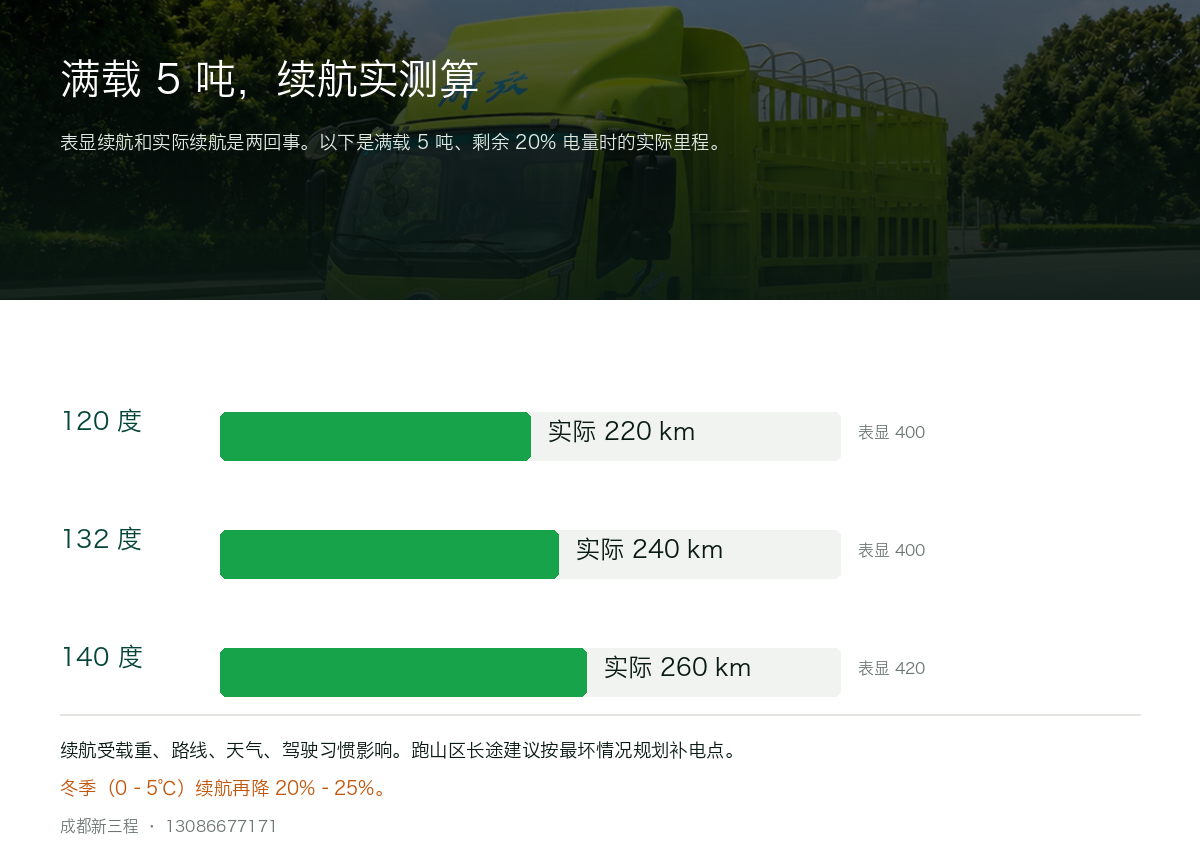
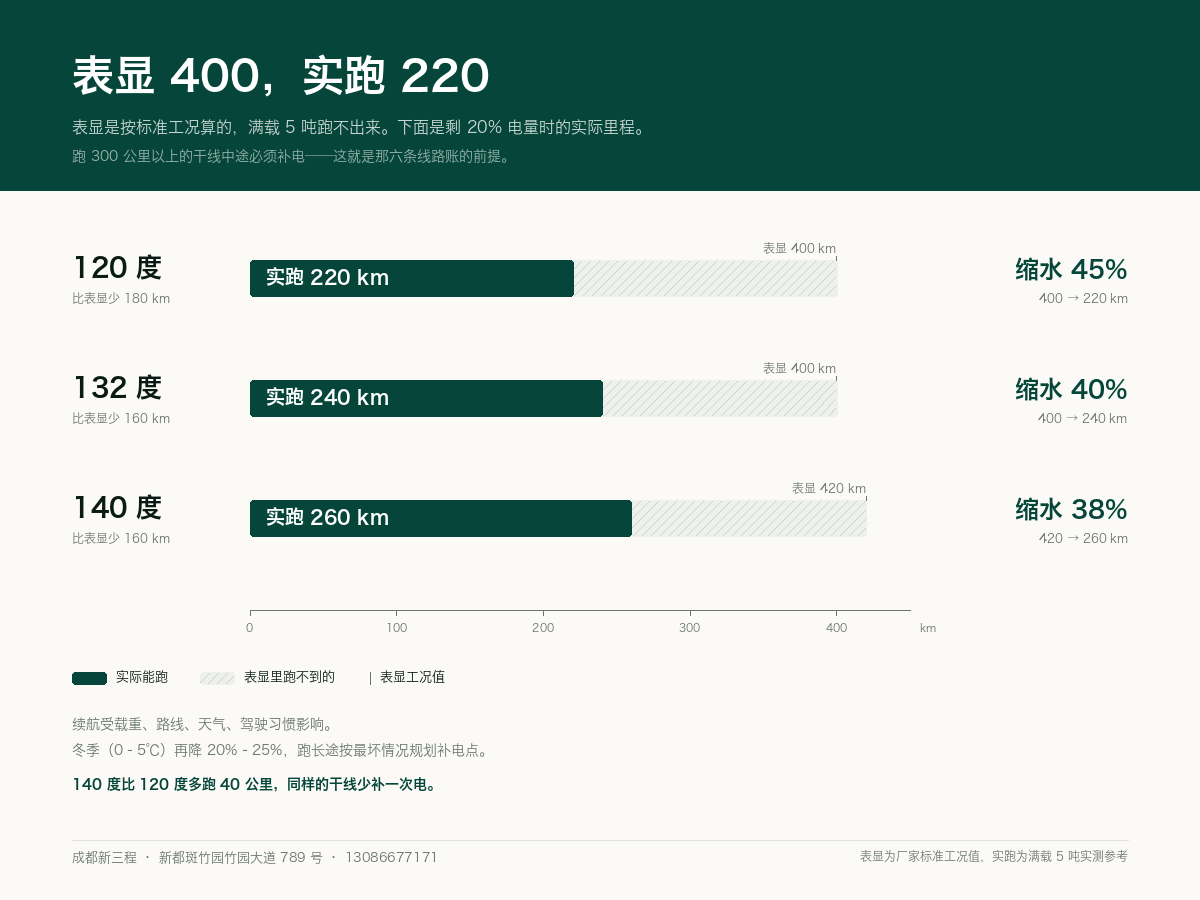
续航图重画：去糊图头图，轨道=表显里程、斜纹=跑不到的那截，缩水率上右列

diff --git a/tuji/index.html b/tuji/index.html
@@ -6,4 +6,4 @@
     var s = document.getElementsByTagName("script")[0];
     s.parentNode.insertBefore(el, s);
   })(window)
-  </script><link rel="stylesheet" href="/_astro/Layout.C2Ga-5dk.css"></head><body class="min-h-screen"><!-- 顶部条 --><div class="bg-forest text-white/90 text-sm"><div class="mx-auto max-w-6xl px-4 h-9 flex items-center justify-between"><span class="hidden sm:inline">成都新都斑竹园 · 现车可看可试</span><span class="sm:hidden">新都斑竹园 · 现车</span><a href="tel:13086677171" class="num font-semibold tracking-wide hover:text-leaf">13086677171</a></div></div><!-- 导航 --><header class="sticky top-0 z-40 bg-[var(--color-cream)] border-b border-[var(--color-line)]"><div class="mx-auto max-w-6xl px-4 h-16 flex items-center justify-between gap-4"><a href="/" class="flex items-center gap-3 shrink-0"><span class="grid place-items-center w-9 h-9 r-card bg-forest text-leaf font-black text-base">新</span><span class="leading-tight"><span class="block font-black text-base tracking-tight">成都新三程</span><span class="block text-xs text-forest/60 -mt-0.5">新能源货车租赁</span></span></a><nav class="hidden lg:flex items-center gap-1 text-sm font-medium"><a href="/" class="px-3 py-2 r-sm hover:bg-forest/5 hover:text-forest transition">首页</a><a href="/chexing/140du/" class="px-3 py-2 r-sm hover:bg-forest/5 hover:text-forest transition">140度</a><a href="/chexing/132du/" class="px-3 py-2 r-sm hover:bg-forest/5 hover:text-forest transition">132度</a><a href="/chexing/120du/" class="px-3 py-2 r-sm hover:bg-forest/5 hover:text-forest transition">120度</a><a href="/zhuanti/zhongzai/" class="px-3 py-2 r-sm hover:bg-forest/5 hover:text-forest transition">重载版</a><a href="/jiaoche/" class="px-3 py-2 r-sm hover:bg-forest/5 hover:text-forest transition">交车标准</a><a href="/hetong/" class="px-3 py-2 r-sm hover:bg-forest/5 hover:text-forest transition">合同条款</a><a href="/news/" class="px-3 py-2 r-sm hover:bg-forest/5 hover:text-forest transition">租车笔记</a><a href="/facts/" class="px-3 py-2 r-sm hover:bg-forest/5 hover:text-forest transition">数据速查</a><a href="/tuji/" class="px-3 py-2 r-sm hover:bg-forest/5 hover:text-forest transition">数据图集</a></nav><div class="flex items-center gap-2"><a href="tel:13086677171" class="hidden sm:inline-flex items-center gap-1.5 r-card bg-forest px-4 py-3 text-white text-sm font-semibold hover:bg-forest-2 transition"><svg width="15" height="15" viewBox="0 0 24 24" fill="none" stroke="currentColor" stroke-width="2.2" stroke-linecap="round"><path d="M22 16.92v3a2 2 0 0 1-2.18 2 19.79 19.79 0 0 1-8.63-3.07 19.5 19.5 0 0 1-6-6 19.79 19.79 0 0 1-3.07-8.67A2 2 0 0 1 4.11 2h3a2 2 0 0 1 2 1.72c.13.96.36 1.9.7 2.81a2 2 0 0 1-.45 2.11L8.09 9.91a16 16 0 0 0 6 6l1.27-1.27a2 2 0 0 1 2.11-.45c.9.34 1.85.57 2.81.7A2 2 0 0 1 22 16.92z"></path></svg>打电话</a><a href="#quote" class="r-card border border-forest/25 px-4 py-3 text-sm font-semibold text-forest hover:bg-forest hover:text-white transition">租车方案</a></div></div><!-- 移动端横向导航 --><div class="lg:hidden border-t border-forest/8 overflow-x-auto"><div class="flex gap-1 px-3 py-2 whitespace-nowrap text-sm font-semibold text-forest/70"><a href="/" class="r-sm px-3 py-1.5 hover:bg-forest/6 hover:text-forest transition">首页</a><a href="/chexing/140du/" class="r-sm px-3 py-1.5 hover:bg-forest/6 hover:text-forest transition">140度</a><a href="/chexing/132du/" class="r-sm px-3 py-1.5 hover:bg-forest/6 hover:text-forest transition">132度</a><a href="/chexing/120du/" class="r-sm px-3 py-1.5 hover:bg-forest/6 hover:text-forest transition">120度</a><a href="/zhuanti/zhongzai/" class="r-sm px-3 py-1.5 hover:bg-forest/6 hover:text-forest transition">重载版</a><a href="/jiaoche/" class="r-sm px-3 py-1.5 hover:bg-forest/6 hover:text-forest transition">交车标准</a><a href="/hetong/" class="r-sm px-3 py-1.5 hover:bg-forest/6 hover:text-forest transition">合同条款</a><a href="/news/" class="r-sm px-3 py-1.5 hover:bg-forest/6 hover:text-forest transition">租车笔记</a><a href="/facts/" class="r-sm px-3 py-1.5 hover:bg-forest/6 hover:text-forest transition">数据速查</a><a href="/tuji/" class="r-sm px-3 py-1.5 hover:bg-forest/6 hover:text-forest transition">数据图集</a></div></div></header><main><section class="relative overflow-hidden bg-ink text-white grid-lines"><div class="relative mx-auto max-w-6xl px-4 pt-16 pb-12 md:pt-20 md:pb-14"><p class="text-sm font-bold text-leaf">数据图集</p><h1 class="mt-3 text-[length:var(--fs-2xl)] md:text-[length:var(--fs-3xl)] font-black tracking-tight leading-[1.14]">八张图，把账算清楚</h1><p class="mt-5 max-w-[65ch] text-base leading-relaxed text-white/80">价格、续航、车厢尺寸、租车流程、油电账、长途一趟多少钱、合同条款、六城方向——租车前真正要弄清楚的八件事，各做成一张图。<b class="text-white">可以直接保存转发</b>，也可以到店要一份打印版。</p></div></section><section id="price" class><div class="mx-auto max-w-6xl px-4 py-12 md:py-16"><div class="grid md:grid-cols-[1.45fr_1fr] gap-6 md:gap-10 items-start"><figure class="overflow-hidden r-card border border-[var(--color-line)] bg-white"><img src="/assets/material/price-table.png" alt="4.2 米新能源货车 · 月租价目" class="w-full" loading="lazy"></figure><div><h2 class="text-[length:var(--fs-xl)] font-black tracking-tight leading-tight">4.2 米新能源货车 · 月租价目</h2><p class="mt-3 text-sm leading-relaxed text-[var(--color-ink-2)]">120/132/140 度三档，标准胎、750 轮胎、235 公制重载胎三种配置的完整月租价格。押金 10,000 元，纯租赁不含电费。</p><ul class="mt-5 divide-y divide-[var(--color-line)] border-y border-[var(--color-line)]"><li class="py-2.5 text-sm leading-relaxed text-[var(--color-ink-2)]">120 度标准胎 6,300 元/月，换 750 轮胎 6,400，换 235 公制重载胎 6,500</li><li class="py-2.5 text-sm leading-relaxed text-[var(--color-ink-2)]">132 度标准胎 6,500 元/月</li><li class="py-2.5 text-sm leading-relaxed text-[var(--color-ink-2)]">140 度标准胎 6,800 元/月，换 750 轮胎 7,100，换 235 公制重载胎 7,200</li><li class="py-2.5 text-sm leading-relaxed text-[var(--color-ink-2)]">同配置 120 度与 140 度月租差 700 元，一年差 8,400 元</li><li class="py-2.5 text-sm leading-relaxed text-[var(--color-ink-2)]">轮胎规格只有三种，没有「700 胎」这个规格</li></ul><a href="/assets/material/price-table.png" download class="mt-5 inline-flex items-center gap-1.5 btn-ghost text-[var(--color-forest)]">下载这张图</a></div></div></div></section><section id="range" class="bg-white border-y border-[var(--color-line)]"><div class="mx-auto max-w-6xl px-4 py-12 md:py-16"><div class="grid md:grid-cols-[1.45fr_1fr] gap-6 md:gap-10 items-start"><figure class="overflow-hidden r-card border border-[var(--color-line)] bg-white"><img src="/assets/material/range-chart.png" alt="满载 5 吨续航实测算" class="w-full" loading="lazy"></figure><div><h2 class="text-[length:var(--fs-xl)] font-black tracking-tight leading-tight">满载 5 吨续航实测算</h2><p class="mt-3 text-sm leading-relaxed text-[var(--color-ink-2)]">表显续航和实际续航是两回事。以下为满载 5 吨、剩余 20% 电量时的实际里程。</p><ul class="mt-5 divide-y divide-[var(--color-line)] border-y border-[var(--color-line)]"><li class="py-2.5 text-sm leading-relaxed text-[var(--color-ink-2)]">120 度：表显约 400 km，满载实际约 220 km</li><li class="py-2.5 text-sm leading-relaxed text-[var(--color-ink-2)]">132 度：表显约 400 km，满载实际约 240 km</li><li class="py-2.5 text-sm leading-relaxed text-[var(--color-ink-2)]">140 度：表显约 420 km，满载实际约 260 km</li><li class="py-2.5 text-sm leading-relaxed text-[var(--color-ink-2)]">续航受载重、路线、天气、驾驶习惯影响</li><li class="py-2.5 text-sm leading-relaxed text-[var(--color-ink-2)]">冬季（0–5℃）续航再降 20%–25%</li></ul><a href="/assets/material/range-chart.png" download class="mt-5 inline-flex items-center gap-1.5 btn-ghost text-[var(--color-forest)]">下载这张图</a></div></div></div></section><section id="cargo" class><div class="mx-auto max-w-6xl px-4 py-12 md:py-16"><div class="grid md:grid-cols-[1.45fr_1fr] gap-6 md:gap-10 items-start"><figure class="overflow-hidden r-card border border-[var(--color-line)] bg-white"><img src="/assets/material/cargo-size.png" alt="4.2 米仓栅车厢尺寸" class="w-full" loading="lazy"></figure><div><h2 class="text-[length:var(--fs-xl)] font-black tracking-tight leading-tight">4.2 米仓栅车厢尺寸</h2><p class="mt-3 text-sm leading-relaxed text-[var(--color-ink-2)]">内宽 2.45 米是 4.2 米车型的核心优势：两个标准托盘（1.2 × 1.0 米）并排放得下。</p><ul class="mt-5 divide-y divide-[var(--color-line)] border-y border-[var(--color-line)]"><li class="py-2.5 text-sm leading-relaxed text-[var(--color-ink-2)]">车厢长 4.2 米，内宽 2.45 米</li><li class="py-2.5 text-sm leading-relaxed text-[var(--color-ink-2)]">高栏车型装载容积约 20–22 方</li><li class="py-2.5 text-sm leading-relaxed text-[var(--color-ink-2)]">公告总质量 4,495 kg</li><li class="py-2.5 text-sm leading-relaxed text-[var(--color-ink-2)]">标准托盘 1.2 × 1.0 米，长向放 3 个、宽向放 2 个，共 6 个托盘</li><li class="py-2.5 text-sm leading-relaxed text-[var(--color-ink-2)]">轻货看方，重货看吨——装满 22 方不等于装得动</li></ul><a href="/assets/material/cargo-size.png" download class="mt-5 inline-flex items-center gap-1.5 btn-ghost text-[var(--color-forest)]">下载这张图</a></div></div></div></section><section id="flow" class="bg-white border-y border-[var(--color-line)]"><div class="mx-auto max-w-6xl px-4 py-12 md:py-16"><div class="grid md:grid-cols-[1.45fr_1fr] gap-6 md:gap-10 items-start"><figure class="overflow-hidden r-card border border-[var(--color-line)] bg-white"><img src="/assets/material/rent-flow.png" alt="从咨询到上路，五步" class="w-full" loading="lazy"></figure><div><h2 class="text-[length:var(--fs-xl)] font-black tracking-tight leading-tight">从咨询到上路，五步</h2><p class="mt-3 text-sm leading-relaxed text-[var(--color-ink-2)]">每一步都留书面记录。合同签前可以先拿样本回家看，看不明白可以不签。</p><ul class="mt-5 divide-y divide-[var(--color-line)] border-y border-[var(--color-line)]"><li class="py-2.5 text-sm leading-relaxed text-[var(--color-ink-2)]">01 问价与配车：按线路、载重、日里程定电量和轮胎规格</li><li class="py-2.5 text-sm leading-relaxed text-[var(--color-ink-2)]">02 到店看车：新都斑竹园一个场地，可看车厢、驾驶室、底盘，支持试驾</li><li class="py-2.5 text-sm leading-relaxed text-[var(--color-ink-2)]">03 看合同：八项条款全部公开，签前逐条过</li><li class="py-2.5 text-sm leading-relaxed text-[var(--color-ink-2)]">04 交车验收：当着面拍 21 张照片，双方各持一份</li><li class="py-2.5 text-sm leading-relaxed text-[var(--color-ink-2)]">05 上路与售后：一个司机一个专属服务群</li></ul><a href="/assets/material/rent-flow.png" download class="mt-5 inline-flex items-center gap-1.5 btn-ghost text-[var(--color-forest)]">下载这张图</a></div></div></div></section><section id="oil" class><div class="mx-auto max-w-6xl px-4 py-12 md:py-16"><div class="grid md:grid-cols-[1.45fr_1fr] gap-6 md:gap-10 items-start"><figure class="overflow-hidden r-card border border-[var(--color-line)] bg-white"><img src="/assets/material/oil-vs-ev.png" alt="油车换电车，账要这么算" class="w-full" loading="lazy"></figure><div><h2 class="text-[length:var(--fs-xl)] font-black tracking-tight leading-tight">油车换电车，账要这么算</h2><p class="mt-3 text-sm leading-relaxed text-[var(--color-ink-2)]">按一天跑 250 公里、一个月 26 天计算。电费按谷电 0.4 元/度、快充 1.2 元/度。</p><ul class="mt-5 divide-y divide-[var(--color-line)] border-y border-[var(--color-line)]"><li class="py-2.5 text-sm leading-relaxed text-[var(--color-ink-2)]">柴油 4.2 米：百公里 12–15 升 × 7 元/升，月成本约 5,500–6,800 元</li><li class="py-2.5 text-sm leading-relaxed text-[var(--color-ink-2)]">电车谷电：百公里 30–35 度 × 0.4 元/度，月成本约 780–910 元</li><li class="py-2.5 text-sm leading-relaxed text-[var(--color-ink-2)]">电车快充：百公里 30–35 度 × 1.2 元/度，月成本约 2,340–2,730 元</li><li class="py-2.5 text-sm leading-relaxed text-[var(--color-ink-2)]">油电差价一个月 3,000–5,000 元</li><li class="py-2.5 text-sm leading-relaxed text-[var(--color-ink-2)]">但要先扣掉购车多花的 5–6 万和残值不确定性——租电车跑等于把这两块风险转移给公司</li></ul><a href="/assets/material/oil-vs-ev.png" download class="mt-5 inline-flex items-center gap-1.5 btn-ghost text-[var(--color-forest)]">下载这张图</a></div></div></div></section><section id="routes" class="bg-white border-y border-[var(--color-line)]"><div class="mx-auto max-w-6xl px-4 py-12 md:py-16"><div class="grid md:grid-cols-[1.45fr_1fr] gap-6 md:gap-10 items-start"><figure class="overflow-hidden r-card border border-[var(--color-line)] bg-white"><img src="/assets/material/long-haul.png" alt="成都出发的长途干线，一趟多少钱" class="w-full" loading="lazy"></figure><div><h2 class="text-[length:var(--fs-xl)] font-black tracking-tight leading-tight">成都出发的长途干线，一趟多少钱</h2><p class="mt-3 text-sm leading-relaxed text-[var(--color-ink-2)]">客户跑的多是单程 300 公里以上的跨省干线。按 120 度满载、快充 1.2 元/度、0.545 度/公里算，只算电费。</p><ul class="mt-5 divide-y divide-[var(--color-line)] border-y border-[var(--color-line)]"><li class="py-2.5 text-sm leading-relaxed text-[var(--color-ink-2)]">重庆 310 公里，途中补电 1 次，单程电费 205 元</li><li class="py-2.5 text-sm leading-relaxed text-[var(--color-ink-2)]">贵阳 640 公里补 3 次 420 元；西安 710 公里补 3 次 465 元</li><li class="py-2.5 text-sm leading-relaxed text-[var(--color-ink-2)]">昆明 850 公里补 4 次 555 元；长沙 1,180 公里补 5 次 770 元；南宁 1,300 公里补 6 次 850 元</li><li class="py-2.5 text-sm leading-relaxed text-[var(--color-ink-2)]">送完空车回来，电费翻倍：贵阳这条空返就是 840 元</li><li class="py-2.5 text-sm leading-relaxed text-[var(--color-ink-2)]">过路费按轴计费、各省不同，吃住一趟 150–250 元，都没算进上面这笔</li><li class="py-2.5 text-sm leading-relaxed text-[var(--color-ink-2)]">超过 600 公里必然过夜，所以先问这一趟跑多远，再问一天多少钱</li></ul><a href="/assets/material/long-haul.png" download class="mt-5 inline-flex items-center gap-1.5 btn-ghost text-[var(--color-forest)]">下载这张图</a></div></div></div></section><section id="contract" class><div class="mx-auto max-w-6xl px-4 py-12 md:py-16"><div class="grid md:grid-cols-[1.45fr_1fr] gap-6 md:gap-10 items-start"><figure class="overflow-hidden r-card border border-[var(--color-line)] bg-white"><img src="/assets/material/contract-8.png" alt="八项条款全公开，三条不做" class="w-full" loading="lazy"></figure><div><h2 class="text-[length:var(--fs-xl)] font-black tracking-tight leading-tight">八项条款全公开，三条不做</h2><p class="mt-3 text-sm leading-relaxed text-[var(--color-ink-2)]">签之前可以先拿样本回家看，看不明白可以不签。</p><ul class="mt-5 divide-y divide-[var(--color-line)] border-y border-[var(--color-line)]"><li class="py-2.5 text-sm leading-relaxed text-[var(--color-ink-2)]">01 押金：金额、抵扣范围、退还时限</li><li class="py-2.5 text-sm leading-relaxed text-[var(--color-ink-2)]">02 租金与租期：付款日、计租起始、提前退违约金</li><li class="py-2.5 text-sm leading-relaxed text-[var(--color-ink-2)]">03 保险：谁投保、保额、免赔谁承担</li><li class="py-2.5 text-sm leading-relaxed text-[var(--color-ink-2)]">04 维修责任 / 05 停运与备用车 / 06 退车验车 / 07 折旧费 / 08 年审与违章</li><li class="py-2.5 text-sm leading-relaxed text-[var(--color-ink-2)]">三条不做：不承诺保底流水、不做 0 押金引流、不先交钱再给看合同</li></ul><a href="/assets/material/contract-8.png" download class="mt-5 inline-flex items-center gap-1.5 btn-ghost text-[var(--color-forest)]">下载这张图</a></div></div></div></section><section id="coverage" class="bg-white border-y border-[var(--color-line)]"><div class="mx-auto max-w-6xl px-4 py-12 md:py-16"><div class="grid md:grid-cols-[1.45fr_1fr] gap-6 md:gap-10 items-start"><figure class="overflow-hidden r-card border border-[var(--color-line)] bg-white"><img src="/assets/material/long-haul-map.png" alt="六条跨省干线，方向一眼看清" class="w-full" loading="lazy"></figure><div><h2 class="text-[length:var(--fs-xl)] font-black tracking-tight leading-tight">六条跨省干线，方向一眼看清</h2><p class="mt-3 text-sm leading-relaxed text-[var(--color-ink-2)]">按真实经纬度落点：往东北是西安，往东南是重庆、贵阳、长沙，往西南是昆明，往南是南宁。</p><ul class="mt-5 divide-y divide-[var(--color-line)] border-y border-[var(--color-line)]"><li class="py-2.5 text-sm leading-relaxed text-[var(--color-ink-2)]">成都交付中心：新都斑竹园竹园大道 789 号</li><li class="py-2.5 text-sm leading-relaxed text-[var(--color-ink-2)]">重庆、昆明、贵阳、长沙、西安都有在租车辆，配件与维修能就近对接</li><li class="py-2.5 text-sm leading-relaxed text-[var(--color-ink-2)]">南宁只是常跑的方向，不在上面六个驻车城市里</li><li class="py-2.5 text-sm leading-relaxed text-[var(--color-ink-2)]">连线只表示方向，数字是公路里程，不是直线距离</li></ul><a href="/assets/material/long-haul-map.png" download class="mt-5 inline-flex items-center gap-1.5 btn-ghost text-[var(--color-forest)]">下载这张图</a></div></div></div></section><section class="mx-auto max-w-6xl px-4 py-12 md:py-16"><div class="r-card border border-[var(--color-line)] bg-white px-6 py-8 md:px-10 md:py-10"><h2 class="text-[length:var(--fs-xl)] font-black tracking-tight">图上没有的，可以打电话问</h2><p class="mt-3 text-sm leading-relaxed text-[var(--color-ink-2)] max-w-[60ch]">具体车况、现车库存、押金和合同条款细节，电话或到店确认最准。</p><div class="mt-6 flex flex-wrap gap-3"><a href="tel:13086677171" class="btn-solid">打电话 13086677171</a><a href="/jiaoche/" class="btn-ghost text-[var(--color-forest)]">看交车验收标准</a><a href="/facts/" class="btn-ghost text-[var(--color-forest)]">看数据速查</a></div></div></section></main><!-- 页脚 --><footer class="mt-24 bg-ink text-white/70"><div class="mx-auto max-w-6xl px-4 py-14 grid gap-10 md:grid-cols-4"><div class="md:col-span-2"><div class="flex items-center gap-3 mb-4"><span class="grid place-items-center w-9 h-9 r-card bg-leaf text-ink font-black text-base">新</span><span class="font-black text-white text-base">成都新三程汽车销售有限公司</span></div><p class="text-sm leading-relaxed max-w-md">700+ 台在营现车。车源 —来自主机厂直供。 4.2 米纯电轻卡 120/132/140 度宁德电池，月租 6,300 元起。</p><p class="text-sm mt-4 num"><a href="tel:13086677171" class="text-leaf font-bold text-base">13086677171</a></p><p class="text-sm mt-1.5">成都市新都区斑竹园街道竹园大道 789 号 2 栋 1 层 101 号</p></div><div><h4 class="text-white text-sm font-bold mb-3">车型</h4><ul class="space-y-2 text-sm"><li><a href="/chexing/140du/" class="hover:text-leaf">140 度 4 米 2 仓栅</a></li><li><a href="/chexing/132du/" class="hover:text-leaf">132 度 4 米 2 仓栅</a></li><li><a href="/chexing/120du/" class="hover:text-leaf">120 度 4 米 2 仓栅</a></li><li><a href="/zhuanti/zhongzai/" class="hover:text-leaf">140 度重载版</a></li></ul></div><div><h4 class="text-white text-sm font-bold mb-3">了解</h4><ul class="space-y-2 text-sm"><li><a href="/hetong/" class="hover:text-leaf">合同与退车条款</a></li><li><a href="/#cars" class="hover:text-leaf">在营车队</a></li><li><a href="/#faq" class="hover:text-leaf">常见问题</a></li><li><a href="/#quote" class="hover:text-leaf">预约看车</a></li></ul></div></div><div class="border-t border-white/10"><div class="mx-auto max-w-6xl px-4 py-5 text-xs flex flex-col sm:flex-row justify-between gap-2"><span>© 2026 成都新三程汽车销售有限公司</span><span>数据口径：在营车辆台账 700+ 台 · 合同 — · 截至 2026-11</span></div></div></footer><link rel="stylesheet" href="/assets/chat-widget.css"><script src="/assets/chat-widget.js" defer></script></body></html>
+  </script><link rel="stylesheet" href="/_astro/Layout.C2Ga-5dk.css"></head><body class="min-h-screen"><!-- 顶部条 --><div class="bg-forest text-white/90 text-sm"><div class="mx-auto max-w-6xl px-4 h-9 flex items-center justify-between"><span class="hidden sm:inline">成都新都斑竹园 · 现车可看可试</span><span class="sm:hidden">新都斑竹园 · 现车</span><a href="tel:13086677171" class="num font-semibold tracking-wide hover:text-leaf">13086677171</a></div></div><!-- 导航 --><header class="sticky top-0 z-40 bg-[var(--color-cream)] border-b border-[var(--color-line)]"><div class="mx-auto max-w-6xl px-4 h-16 flex items-center justify-between gap-4"><a href="/" class="flex items-center gap-3 shrink-0"><span class="grid place-items-center w-9 h-9 r-card bg-forest text-leaf font-black text-base">新</span><span class="leading-tight"><span class="block font-black text-base tracking-tight">成都新三程</span><span class="block text-xs text-forest/60 -mt-0.5">新能源货车租赁</span></span></a><nav class="hidden lg:flex items-center gap-1 text-sm font-medium"><a href="/" class="px-3 py-2 r-sm hover:bg-forest/5 hover:text-forest transition">首页</a><a href="/chexing/140du/" class="px-3 py-2 r-sm hover:bg-forest/5 hover:text-forest transition">140度</a><a href="/chexing/132du/" class="px-3 py-2 r-sm hover:bg-forest/5 hover:text-forest transition">132度</a><a href="/chexing/120du/" class="px-3 py-2 r-sm hover:bg-forest/5 hover:text-forest transition">120度</a><a href="/zhuanti/zhongzai/" class="px-3 py-2 r-sm hover:bg-forest/5 hover:text-forest transition">重载版</a><a href="/jiaoche/" class="px-3 py-2 r-sm hover:bg-forest/5 hover:text-forest transition">交车标准</a><a href="/hetong/" class="px-3 py-2 r-sm hover:bg-forest/5 hover:text-forest transition">合同条款</a><a href="/news/" class="px-3 py-2 r-sm hover:bg-forest/5 hover:text-forest transition">租车笔记</a><a href="/facts/" class="px-3 py-2 r-sm hover:bg-forest/5 hover:text-forest transition">数据速查</a><a href="/tuji/" class="px-3 py-2 r-sm hover:bg-forest/5 hover:text-forest transition">数据图集</a></nav><div class="flex items-center gap-2"><a href="tel:13086677171" class="hidden sm:inline-flex items-center gap-1.5 r-card bg-forest px-4 py-3 text-white text-sm font-semibold hover:bg-forest-2 transition"><svg width="15" height="15" viewBox="0 0 24 24" fill="none" stroke="currentColor" stroke-width="2.2" stroke-linecap="round"><path d="M22 16.92v3a2 2 0 0 1-2.18 2 19.79 19.79 0 0 1-8.63-3.07 19.5 19.5 0 0 1-6-6 19.79 19.79 0 0 1-3.07-8.67A2 2 0 0 1 4.11 2h3a2 2 0 0 1 2 1.72c.13.96.36 1.9.7 2.81a2 2 0 0 1-.45 2.11L8.09 9.91a16 16 0 0 0 6 6l1.27-1.27a2 2 0 0 1 2.11-.45c.9.34 1.85.57 2.81.7A2 2 0 0 1 22 16.92z"></path></svg>打电话</a><a href="#quote" class="r-card border border-forest/25 px-4 py-3 text-sm font-semibold text-forest hover:bg-forest hover:text-white transition">租车方案</a></div></div><!-- 移动端横向导航 --><div class="lg:hidden border-t border-forest/8 overflow-x-auto"><div class="flex gap-1 px-3 py-2 whitespace-nowrap text-sm font-semibold text-forest/70"><a href="/" class="r-sm px-3 py-1.5 hover:bg-forest/6 hover:text-forest transition">首页</a><a href="/chexing/140du/" class="r-sm px-3 py-1.5 hover:bg-forest/6 hover:text-forest transition">140度</a><a href="/chexing/132du/" class="r-sm px-3 py-1.5 hover:bg-forest/6 hover:text-forest transition">132度</a><a href="/chexing/120du/" class="r-sm px-3 py-1.5 hover:bg-forest/6 hover:text-forest transition">120度</a><a href="/zhuanti/zhongzai/" class="r-sm px-3 py-1.5 hover:bg-forest/6 hover:text-forest transition">重载版</a><a href="/jiaoche/" class="r-sm px-3 py-1.5 hover:bg-forest/6 hover:text-forest transition">交车标准</a><a href="/hetong/" class="r-sm px-3 py-1.5 hover:bg-forest/6 hover:text-forest transition">合同条款</a><a href="/news/" class="r-sm px-3 py-1.5 hover:bg-forest/6 hover:text-forest transition">租车笔记</a><a href="/facts/" class="r-sm px-3 py-1.5 hover:bg-forest/6 hover:text-forest transition">数据速查</a><a href="/tuji/" class="r-sm px-3 py-1.5 hover:bg-forest/6 hover:text-forest transition">数据图集</a></div></div></header><main><section class="relative overflow-hidden bg-ink text-white grid-lines"><div class="relative mx-auto max-w-6xl px-4 pt-16 pb-12 md:pt-20 md:pb-14"><p class="text-sm font-bold text-leaf">数据图集</p><h1 class="mt-3 text-[length:var(--fs-2xl)] md:text-[length:var(--fs-3xl)] font-black tracking-tight leading-[1.14]">八张图，把账算清楚</h1><p class="mt-5 max-w-[65ch] text-base leading-relaxed text-white/80">价格、续航、车厢尺寸、租车流程、油电账、长途一趟多少钱、合同条款、六城方向——租车前真正要弄清楚的八件事，各做成一张图。<b class="text-white">可以直接保存转发</b>，也可以到店要一份打印版。</p></div></section><section id="price" class><div class="mx-auto max-w-6xl px-4 py-12 md:py-16"><div class="grid md:grid-cols-[1.45fr_1fr] gap-6 md:gap-10 items-start"><figure class="overflow-hidden r-card border border-[var(--color-line)] bg-white"><img src="/assets/material/price-table.png" alt="4.2 米新能源货车 · 月租价目" class="w-full" loading="lazy"></figure><div><h2 class="text-[length:var(--fs-xl)] font-black tracking-tight leading-tight">4.2 米新能源货车 · 月租价目</h2><p class="mt-3 text-sm leading-relaxed text-[var(--color-ink-2)]">120/132/140 度三档，标准胎、750 轮胎、235 公制重载胎三种配置的完整月租价格。押金 10,000 元，纯租赁不含电费。</p><ul class="mt-5 divide-y divide-[var(--color-line)] border-y border-[var(--color-line)]"><li class="py-2.5 text-sm leading-relaxed text-[var(--color-ink-2)]">120 度标准胎 6,300 元/月，换 750 轮胎 6,400，换 235 公制重载胎 6,500</li><li class="py-2.5 text-sm leading-relaxed text-[var(--color-ink-2)]">132 度标准胎 6,500 元/月</li><li class="py-2.5 text-sm leading-relaxed text-[var(--color-ink-2)]">140 度标准胎 6,800 元/月，换 750 轮胎 7,100，换 235 公制重载胎 7,200</li><li class="py-2.5 text-sm leading-relaxed text-[var(--color-ink-2)]">同配置 120 度与 140 度月租差 700 元，一年差 8,400 元</li><li class="py-2.5 text-sm leading-relaxed text-[var(--color-ink-2)]">轮胎规格只有三种，没有「700 胎」这个规格</li></ul><a href="/assets/material/price-table.png" download class="mt-5 inline-flex items-center gap-1.5 btn-ghost text-[var(--color-forest)]">下载这张图</a></div></div></div></section><section id="range" class="bg-white border-y border-[var(--color-line)]"><div class="mx-auto max-w-6xl px-4 py-12 md:py-16"><div class="grid md:grid-cols-[1.45fr_1fr] gap-6 md:gap-10 items-start"><figure class="overflow-hidden r-card border border-[var(--color-line)] bg-white"><img src="/assets/material/range-chart.png" alt="满载 5 吨续航实测算" class="w-full" loading="lazy"></figure><div><h2 class="text-[length:var(--fs-xl)] font-black tracking-tight leading-tight">满载 5 吨续航实测算</h2><p class="mt-3 text-sm leading-relaxed text-[var(--color-ink-2)]">表显续航和实际续航是两回事。以下为满载 5 吨、剩余 20% 电量时的实际里程。</p><ul class="mt-5 divide-y divide-[var(--color-line)] border-y border-[var(--color-line)]"><li class="py-2.5 text-sm leading-relaxed text-[var(--color-ink-2)]">120 度：表显约 400 km，满载实际约 220 km，缩水 45%</li><li class="py-2.5 text-sm leading-relaxed text-[var(--color-ink-2)]">132 度：表显约 400 km，满载实际约 240 km，缩水 40%</li><li class="py-2.5 text-sm leading-relaxed text-[var(--color-ink-2)]">140 度：表显约 420 km，满载实际约 260 km，缩水 38%</li><li class="py-2.5 text-sm leading-relaxed text-[var(--color-ink-2)]">续航受载重、路线、天气、驾驶习惯影响</li><li class="py-2.5 text-sm leading-relaxed text-[var(--color-ink-2)]">冬季（0–5℃）续航再降 20%–25%</li></ul><a href="/assets/material/range-chart.png" download class="mt-5 inline-flex items-center gap-1.5 btn-ghost text-[var(--color-forest)]">下载这张图</a></div></div></div></section><section id="cargo" class><div class="mx-auto max-w-6xl px-4 py-12 md:py-16"><div class="grid md:grid-cols-[1.45fr_1fr] gap-6 md:gap-10 items-start"><figure class="overflow-hidden r-card border border-[var(--color-line)] bg-white"><img src="/assets/material/cargo-size.png" alt="4.2 米仓栅车厢尺寸" class="w-full" loading="lazy"></figure><div><h2 class="text-[length:var(--fs-xl)] font-black tracking-tight leading-tight">4.2 米仓栅车厢尺寸</h2><p class="mt-3 text-sm leading-relaxed text-[var(--color-ink-2)]">内宽 2.45 米是 4.2 米车型的核心优势：两个标准托盘（1.2 × 1.0 米）并排放得下。</p><ul class="mt-5 divide-y divide-[var(--color-line)] border-y border-[var(--color-line)]"><li class="py-2.5 text-sm leading-relaxed text-[var(--color-ink-2)]">车厢长 4.2 米，内宽 2.45 米</li><li class="py-2.5 text-sm leading-relaxed text-[var(--color-ink-2)]">高栏车型装载容积约 20–22 方</li><li class="py-2.5 text-sm leading-relaxed text-[var(--color-ink-2)]">公告总质量 4,495 kg</li><li class="py-2.5 text-sm leading-relaxed text-[var(--color-ink-2)]">标准托盘 1.2 × 1.0 米，长向放 3 个、宽向放 2 个，共 6 个托盘</li><li class="py-2.5 text-sm leading-relaxed text-[var(--color-ink-2)]">轻货看方，重货看吨——装满 22 方不等于装得动</li></ul><a href="/assets/material/cargo-size.png" download class="mt-5 inline-flex items-center gap-1.5 btn-ghost text-[var(--color-forest)]">下载这张图</a></div></div></div></section><section id="flow" class="bg-white border-y border-[var(--color-line)]"><div class="mx-auto max-w-6xl px-4 py-12 md:py-16"><div class="grid md:grid-cols-[1.45fr_1fr] gap-6 md:gap-10 items-start"><figure class="overflow-hidden r-card border border-[var(--color-line)] bg-white"><img src="/assets/material/rent-flow.png" alt="从咨询到上路，五步" class="w-full" loading="lazy"></figure><div><h2 class="text-[length:var(--fs-xl)] font-black tracking-tight leading-tight">从咨询到上路，五步</h2><p class="mt-3 text-sm leading-relaxed text-[var(--color-ink-2)]">每一步都留书面记录。合同签前可以先拿样本回家看，看不明白可以不签。</p><ul class="mt-5 divide-y divide-[var(--color-line)] border-y border-[var(--color-line)]"><li class="py-2.5 text-sm leading-relaxed text-[var(--color-ink-2)]">01 问价与配车：按线路、载重、日里程定电量和轮胎规格</li><li class="py-2.5 text-sm leading-relaxed text-[var(--color-ink-2)]">02 到店看车：新都斑竹园一个场地，可看车厢、驾驶室、底盘，支持试驾</li><li class="py-2.5 text-sm leading-relaxed text-[var(--color-ink-2)]">03 看合同：八项条款全部公开，签前逐条过</li><li class="py-2.5 text-sm leading-relaxed text-[var(--color-ink-2)]">04 交车验收：当着面拍 21 张照片，双方各持一份</li><li class="py-2.5 text-sm leading-relaxed text-[var(--color-ink-2)]">05 上路与售后：一个司机一个专属服务群</li></ul><a href="/assets/material/rent-flow.png" download class="mt-5 inline-flex items-center gap-1.5 btn-ghost text-[var(--color-forest)]">下载这张图</a></div></div></div></section><section id="oil" class><div class="mx-auto max-w-6xl px-4 py-12 md:py-16"><div class="grid md:grid-cols-[1.45fr_1fr] gap-6 md:gap-10 items-start"><figure class="overflow-hidden r-card border border-[var(--color-line)] bg-white"><img src="/assets/material/oil-vs-ev.png" alt="油车换电车，账要这么算" class="w-full" loading="lazy"></figure><div><h2 class="text-[length:var(--fs-xl)] font-black tracking-tight leading-tight">油车换电车，账要这么算</h2><p class="mt-3 text-sm leading-relaxed text-[var(--color-ink-2)]">按一天跑 250 公里、一个月 26 天计算。电费按谷电 0.4 元/度、快充 1.2 元/度。</p><ul class="mt-5 divide-y divide-[var(--color-line)] border-y border-[var(--color-line)]"><li class="py-2.5 text-sm leading-relaxed text-[var(--color-ink-2)]">柴油 4.2 米：百公里 12–15 升 × 7 元/升，月成本约 5,500–6,800 元</li><li class="py-2.5 text-sm leading-relaxed text-[var(--color-ink-2)]">电车谷电：百公里 30–35 度 × 0.4 元/度，月成本约 780–910 元</li><li class="py-2.5 text-sm leading-relaxed text-[var(--color-ink-2)]">电车快充：百公里 30–35 度 × 1.2 元/度，月成本约 2,340–2,730 元</li><li class="py-2.5 text-sm leading-relaxed text-[var(--color-ink-2)]">油电差价一个月 3,000–5,000 元</li><li class="py-2.5 text-sm leading-relaxed text-[var(--color-ink-2)]">但要先扣掉购车多花的 5–6 万和残值不确定性——租电车跑等于把这两块风险转移给公司</li></ul><a href="/assets/material/oil-vs-ev.png" download class="mt-5 inline-flex items-center gap-1.5 btn-ghost text-[var(--color-forest)]">下载这张图</a></div></div></div></section><section id="routes" class="bg-white border-y border-[var(--color-line)]"><div class="mx-auto max-w-6xl px-4 py-12 md:py-16"><div class="grid md:grid-cols-[1.45fr_1fr] gap-6 md:gap-10 items-start"><figure class="overflow-hidden r-card border border-[var(--color-line)] bg-white"><img src="/assets/material/long-haul.png" alt="成都出发的长途干线，一趟多少钱" class="w-full" loading="lazy"></figure><div><h2 class="text-[length:var(--fs-xl)] font-black tracking-tight leading-tight">成都出发的长途干线，一趟多少钱</h2><p class="mt-3 text-sm leading-relaxed text-[var(--color-ink-2)]">客户跑的多是单程 300 公里以上的跨省干线。按 120 度满载、快充 1.2 元/度、0.545 度/公里算，只算电费。</p><ul class="mt-5 divide-y divide-[var(--color-line)] border-y border-[var(--color-line)]"><li class="py-2.5 text-sm leading-relaxed text-[var(--color-ink-2)]">重庆 310 公里，途中补电 1 次，单程电费 205 元</li><li class="py-2.5 text-sm leading-relaxed text-[var(--color-ink-2)]">贵阳 640 公里补 3 次 420 元；西安 710 公里补 3 次 465 元</li><li class="py-2.5 text-sm leading-relaxed text-[var(--color-ink-2)]">昆明 850 公里补 4 次 555 元；长沙 1,180 公里补 5 次 770 元；南宁 1,300 公里补 6 次 850 元</li><li class="py-2.5 text-sm leading-relaxed text-[var(--color-ink-2)]">送完空车回来，电费翻倍：贵阳这条空返就是 840 元</li><li class="py-2.5 text-sm leading-relaxed text-[var(--color-ink-2)]">过路费按轴计费、各省不同，吃住一趟 150–250 元，都没算进上面这笔</li><li class="py-2.5 text-sm leading-relaxed text-[var(--color-ink-2)]">超过 600 公里必然过夜，所以先问这一趟跑多远，再问一天多少钱</li></ul><a href="/assets/material/long-haul.png" download class="mt-5 inline-flex items-center gap-1.5 btn-ghost text-[var(--color-forest)]">下载这张图</a></div></div></div></section><section id="contract" class><div class="mx-auto max-w-6xl px-4 py-12 md:py-16"><div class="grid md:grid-cols-[1.45fr_1fr] gap-6 md:gap-10 items-start"><figure class="overflow-hidden r-card border border-[var(--color-line)] bg-white"><img src="/assets/material/contract-8.png" alt="八项条款全公开，三条不做" class="w-full" loading="lazy"></figure><div><h2 class="text-[length:var(--fs-xl)] font-black tracking-tight leading-tight">八项条款全公开，三条不做</h2><p class="mt-3 text-sm leading-relaxed text-[var(--color-ink-2)]">签之前可以先拿样本回家看，看不明白可以不签。</p><ul class="mt-5 divide-y divide-[var(--color-line)] border-y border-[var(--color-line)]"><li class="py-2.5 text-sm leading-relaxed text-[var(--color-ink-2)]">01 押金：金额、抵扣范围、退还时限</li><li class="py-2.5 text-sm leading-relaxed text-[var(--color-ink-2)]">02 租金与租期：付款日、计租起始、提前退违约金</li><li class="py-2.5 text-sm leading-relaxed text-[var(--color-ink-2)]">03 保险：谁投保、保额、免赔谁承担</li><li class="py-2.5 text-sm leading-relaxed text-[var(--color-ink-2)]">04 维修责任 / 05 停运与备用车 / 06 退车验车 / 07 折旧费 / 08 年审与违章</li><li class="py-2.5 text-sm leading-relaxed text-[var(--color-ink-2)]">三条不做：不承诺保底流水、不做 0 押金引流、不先交钱再给看合同</li></ul><a href="/assets/material/contract-8.png" download class="mt-5 inline-flex items-center gap-1.5 btn-ghost text-[var(--color-forest)]">下载这张图</a></div></div></div></section><section id="coverage" class="bg-white border-y border-[var(--color-line)]"><div class="mx-auto max-w-6xl px-4 py-12 md:py-16"><div class="grid md:grid-cols-[1.45fr_1fr] gap-6 md:gap-10 items-start"><figure class="overflow-hidden r-card border border-[var(--color-line)] bg-white"><img src="/assets/material/long-haul-map.png" alt="六条跨省干线，方向一眼看清" class="w-full" loading="lazy"></figure><div><h2 class="text-[length:var(--fs-xl)] font-black tracking-tight leading-tight">六条跨省干线，方向一眼看清</h2><p class="mt-3 text-sm leading-relaxed text-[var(--color-ink-2)]">按真实经纬度落点：往东北是西安，往东南是重庆、贵阳、长沙，往西南是昆明，往南是南宁。</p><ul class="mt-5 divide-y divide-[var(--color-line)] border-y border-[var(--color-line)]"><li class="py-2.5 text-sm leading-relaxed text-[var(--color-ink-2)]">成都交付中心：新都斑竹园竹园大道 789 号</li><li class="py-2.5 text-sm leading-relaxed text-[var(--color-ink-2)]">重庆、昆明、贵阳、长沙、西安都有在租车辆，配件与维修能就近对接</li><li class="py-2.5 text-sm leading-relaxed text-[var(--color-ink-2)]">南宁只是常跑的方向，不在上面六个驻车城市里</li><li class="py-2.5 text-sm leading-relaxed text-[var(--color-ink-2)]">连线只表示方向，数字是公路里程，不是直线距离</li></ul><a href="/assets/material/long-haul-map.png" download class="mt-5 inline-flex items-center gap-1.5 btn-ghost text-[var(--color-forest)]">下载这张图</a></div></div></div></section><section class="mx-auto max-w-6xl px-4 py-12 md:py-16"><div class="r-card border border-[var(--color-line)] bg-white px-6 py-8 md:px-10 md:py-10"><h2 class="text-[length:var(--fs-xl)] font-black tracking-tight">图上没有的，可以打电话问</h2><p class="mt-3 text-sm leading-relaxed text-[var(--color-ink-2)] max-w-[60ch]">具体车况、现车库存、押金和合同条款细节，电话或到店确认最准。</p><div class="mt-6 flex flex-wrap gap-3"><a href="tel:13086677171" class="btn-solid">打电话 13086677171</a><a href="/jiaoche/" class="btn-ghost text-[var(--color-forest)]">看交车验收标准</a><a href="/facts/" class="btn-ghost text-[var(--color-forest)]">看数据速查</a></div></div></section></main><!-- 页脚 --><footer class="mt-24 bg-ink text-white/70"><div class="mx-auto max-w-6xl px-4 py-14 grid gap-10 md:grid-cols-4"><div class="md:col-span-2"><div class="flex items-center gap-3 mb-4"><span class="grid place-items-center w-9 h-9 r-card bg-leaf text-ink font-black text-base">新</span><span class="font-black text-white text-base">成都新三程汽车销售有限公司</span></div><p class="text-sm leading-relaxed max-w-md">700+ 台在营现车。车源 —来自主机厂直供。 4.2 米纯电轻卡 120/132/140 度宁德电池，月租 6,300 元起。</p><p class="text-sm mt-4 num"><a href="tel:13086677171" class="text-leaf font-bold text-base">13086677171</a></p><p class="text-sm mt-1.5">成都市新都区斑竹园街道竹园大道 789 号 2 栋 1 层 101 号</p></div><div><h4 class="text-white text-sm font-bold mb-3">车型</h4><ul class="space-y-2 text-sm"><li><a href="/chexing/140du/" class="hover:text-leaf">140 度 4 米 2 仓栅</a></li><li><a href="/chexing/132du/" class="hover:text-leaf">132 度 4 米 2 仓栅</a></li><li><a href="/chexing/120du/" class="hover:text-leaf">120 度 4 米 2 仓栅</a></li><li><a href="/zhuanti/zhongzai/" class="hover:text-leaf">140 度重载版</a></li></ul></div><div><h4 class="text-white text-sm font-bold mb-3">了解</h4><ul class="space-y-2 text-sm"><li><a href="/hetong/" class="hover:text-leaf">合同与退车条款</a></li><li><a href="/#cars" class="hover:text-leaf">在营车队</a></li><li><a href="/#faq" class="hover:text-leaf">常见问题</a></li><li><a href="/#quote" class="hover:text-leaf">预约看车</a></li></ul></div></div><div class="border-t border-white/10"><div class="mx-auto max-w-6xl px-4 py-5 text-xs flex flex-col sm:flex-row justify-between gap-2"><span>© 2026 成都新三程汽车销售有限公司</span><span>数据口径：在营车辆台账 700+ 台 · 合同 — · 截至 2026-11</span></div></div></footer><link rel="stylesheet" href="/assets/chat-widget.css"><script src="/assets/chat-widget.js" defer></script></body></html>
